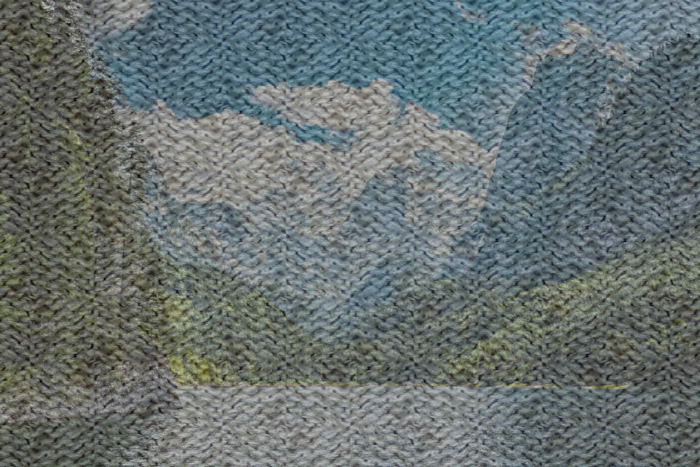
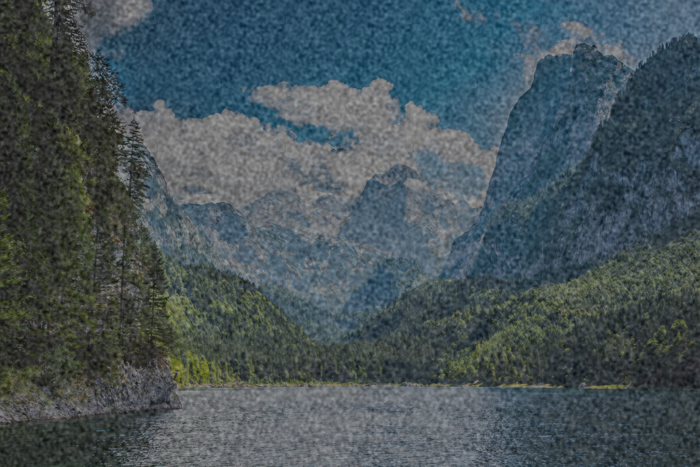
added darker lake image

diff --git a/ResponsivePatterns/ResponsivePatterns/03/index.html b/ResponsivePatterns/ResponsivePatterns/03/index.html
@@ -48,18 +48,10 @@
         <!-- Scrollable Mountain Video 
              Video found here: https://coverr.co/
         -->
+        <!-- Image 1 -->
         <section class="row">
-            <div class="homepage-hero-module">
-                <div class="video-container">
-                    <div class="filter"></div>
-                    <video autoplay loop class="fillWidth">
-                        <source src="/vids/Trees-Top.mp4" type="video/mp4" />Your browser does not support the video tag. I suggest you upgrade your browser.
-                        <source src="/vids/Trees-Top.webm" type="video/webm" />Your browser does not support the video tag. I suggest you upgrade your browser.
-                    </video>
-                    <div class="poster hidden">
-                        <img src="../images/Trees-Top.jpg" alt="">
-                    </div>
-                </div>
+            <div class="fill-screen fixed-attachment" style="background-image: url(../images/lake-dark.jpg)">
+                <img src="../images/site-logo-white.png" />
             </div>
         </section>
 

diff --git a/ResponsivePatterns/ResponsivePatterns/Content/app.css b/ResponsivePatterns/ResponsivePatterns/Content/app.css
@@ -74,17 +74,17 @@
     }
 
 .activity-section {
-   margin: 50px;
+    margin: 50px;
 }
 
 .activity-element {
     text-align: center;
 }
 
-.activity-element img {
-    width: 150px;
-    height: 150px;
-}
+    .activity-element img {
+        width: 150px;
+        height: 150px;
+    }
 
 .contact-us {
     margin: 50px;
